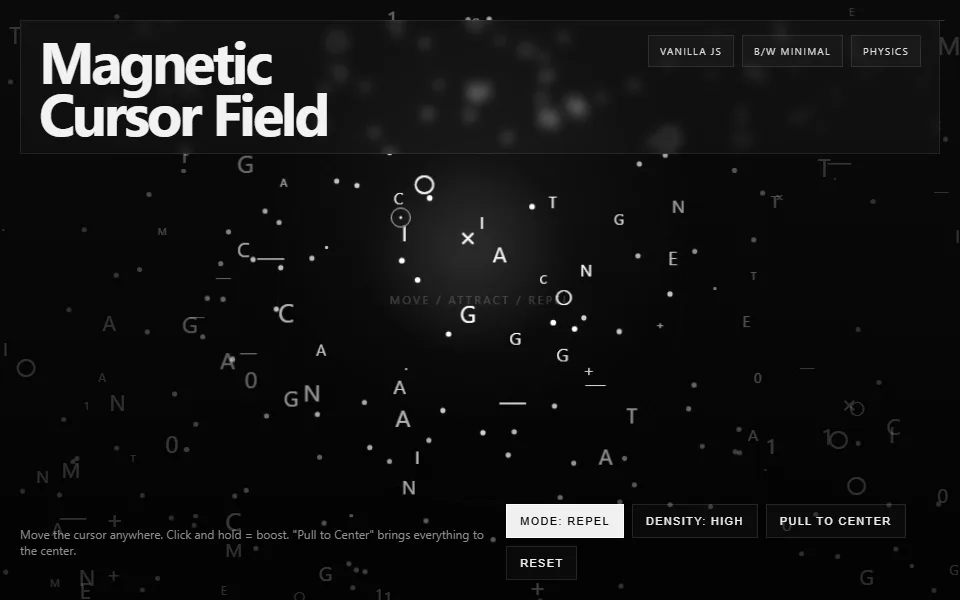
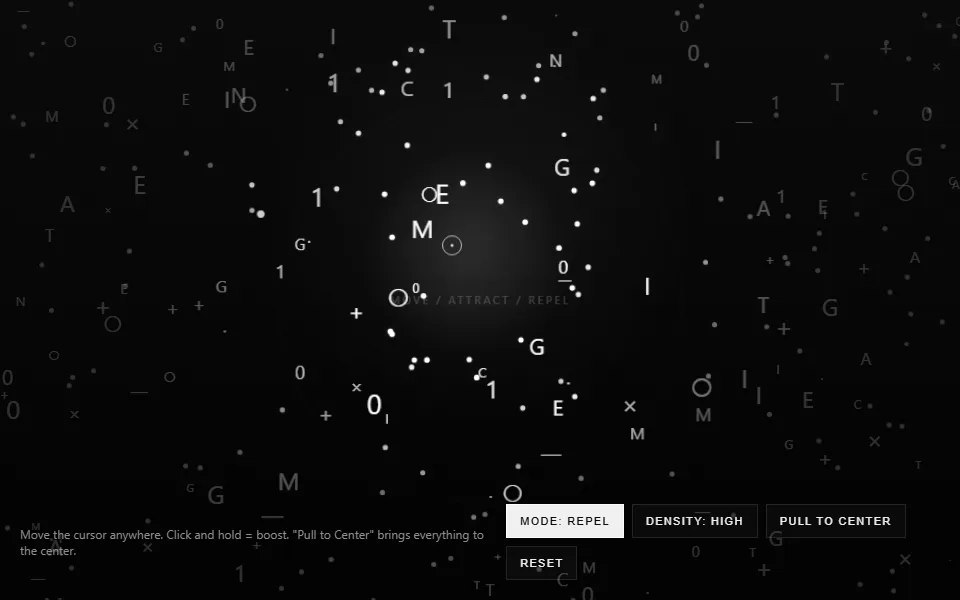
refactor: magnetic-cursor drop header, content bottom-aligned

diff --git a/experiences/magnetic-cursor/index.html b/experiences/magnetic-cursor/index.html
@@ -18,8 +18,7 @@
     body{cursor:none;background:
       radial-gradient(circle at 50% 35%,rgba(255,255,255,.05),transparent 35%),
       linear-gradient(180deg,#0a0a0a,#030303)}
-    .app{position:fixed;inset:0;display:flex;flex-direction:column;justify-content:space-between;gap:16px;padding:20px;pointer-events:none;z-index:2}
-    header{display:flex;justify-content:space-between;align-items:flex-start;gap:16px;pointer-events:auto;padding:14px 18px;background:rgba(255,255,255,.03);backdrop-filter:blur(6px);-webkit-backdrop-filter:blur(6px);border:1px solid rgba(255,255,255,.08)}
+    .app{position:fixed;inset:0;display:flex;flex-direction:column;justify-content:flex-end;gap:16px;padding:20px;pointer-events:none;z-index:2}
     h1{font-size:clamp(28px,6vw,74px);line-height:.9;letter-spacing:-.05em}
     .meta{display:flex;gap:8px;flex-wrap:wrap;justify-content:flex-end}
     .pill{border:1px solid var(--line);background:var(--panel);padding:8px 11px;border-radius:0;font-size:10px;letter-spacing:.12em;text-transform:uppercase;color:#ddd}
